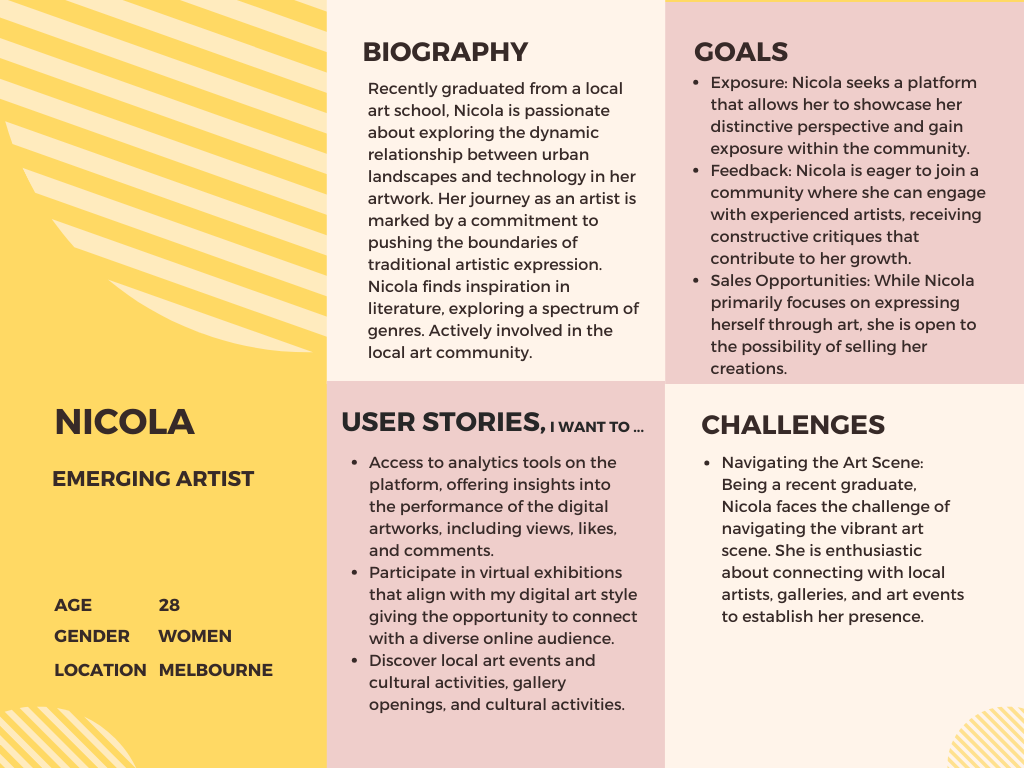
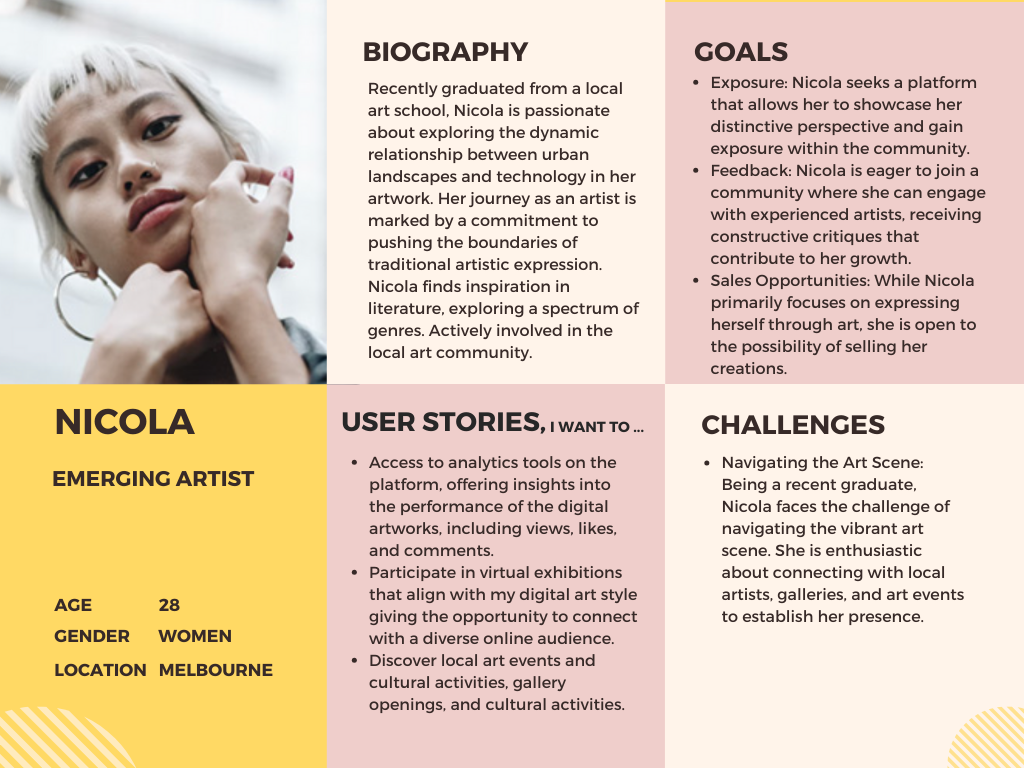
docs: personas with photos and architecture diagram

Changed region(s): [[0.0, 0.0, 0.625, 0.5]]

diff --git a/README.md b/README.md
@@ -44,38 +44,24 @@ Our idea is for an Online art gallery where artists and art enthusiasts can gath
 ## User Persona:
 
 ### Experienced Artist
-![]()
-
+![](./docs/Personas/ExpriencedArtist.png)
 
 ### Emerging Artist
-![]()
+![](./docs/Personas/EmergingArtist.png)
+
+### Art Critic
+![](./docs/Personas/ArtCritic.png)
+
+### Art Enthusiast
+![](./docs/Personas/ArtEnthusiast.png)
 
 ### Unintentional Visitor
+![](./docs/Personas/UnintentionalVisitor.png)
 
-**Emily**
-
-**Bio**:
-Emily, a 30-year-old visitor, stumbled upon an art gallery website by chance. Coming from a small town in the Australia, she works as a high school teacher and has never delved into the art world beyond admiring her students' creations. Despite her lack of artistic knowledge, Emily has always been fascinated by the various forms of expression and seeks to explore this newfound interest.
-
-**Goals**:
-
-- **Learning**: She hopes to understand art better, looking for a platform that helps explain and appreciate artworks.
-- **Engagement**: Emily wishes to engage with the art community, connect with artists, and learn from their experiences to broaden her perspective.
-
-**Challenges:**
-
-- **Limited Art Knowledge:** Emily lacks formal education or exposure to art, which makes navigating the art world intimidating and overwhelming.
-- **Understanding Art Terminology:** She finds it challenging to grasp the technical language used in art descriptions.
-- **Identifying Personal Preferences:** Emily struggles to identify her preferences in art styles, mediums, or genres due to her limited exposure.
-
-**User Stories:**
-
-Emily wants to:
-
-- Explore beginner-friendly exhibitions that introduce different art styles, providing explanations in simple terms.
-- Engage in interactive features or forums where she can ask questions and receive explanations from artists or knowledgeable individuals in a welcoming environment.
 
 ## Application Architecture Diagram
+
+![](./%20ArchitectureDiagram.png)
 
 ## Tech Stack:
 
